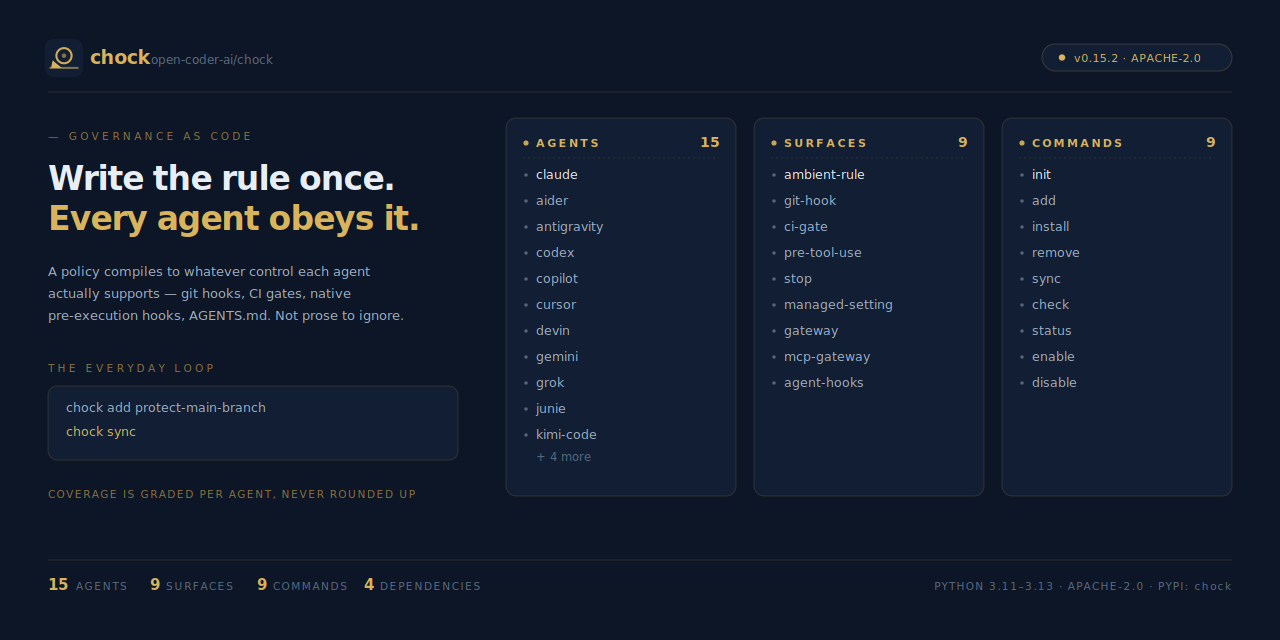
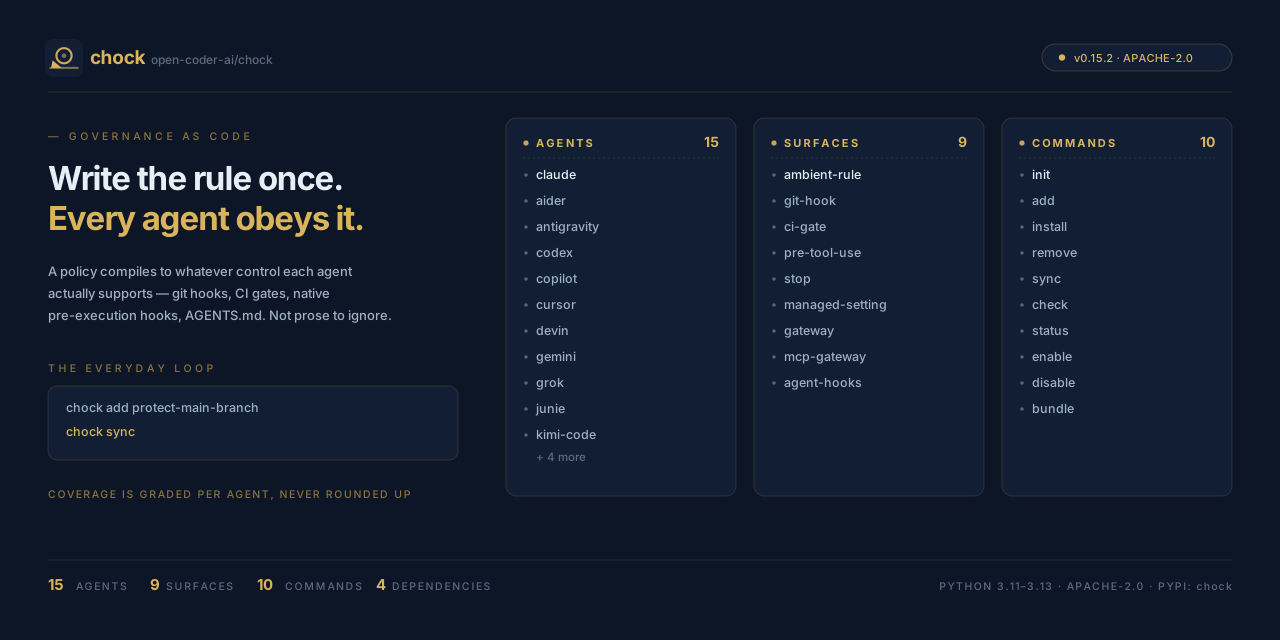
fix(bundle): run the adapter with runpy, not exec (semgrep no-eval-exec); regenerate the social card
The card counts everyday commands, and chock bundle is a new one.

diff --git a/src/chock/guardrails/toggle.py b/src/chock/guardrails/toggle.py
@@ -15,6 +15,7 @@ import io
 import json
 import os
 import re
+import runpy
 import sys
 from datetime import datetime, timezone
 from pathlib import Path
@@ -189,9 +190,7 @@ def main() -> None:
     payload = sys.stdin.buffer.read()
     sys.argv = wrapped(sys.argv[1:], payload)
     sys.stdin = io.TextIOWrapper(io.BytesIO(payload), encoding="utf-8")
-    adapter = Path(sys.argv[0])
-    code = compile(adapter.read_bytes(), str(adapter), "exec")
-    exec(code, {"__name__": "__main__", "__file__": str(adapter), "__builtins__": __builtins__})  # noqa: S102 -- the client's own shipped adapter, run as `python <adapter>` would
+    runpy.run_path(sys.argv[0], run_name="__main__")
 
 
 if __name__ == "__main__":
